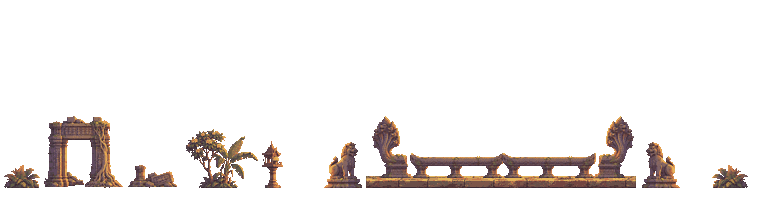
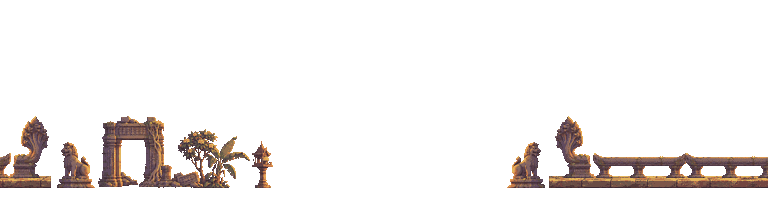
Keep the naga balustrade out from behind the Angkor moat's breach
The near strip slid its naga balustrade behind the breach in the Naga Causeway as the camera
moved: the naga and the stone it stands on stood at the road's own height in the gap, so the
breach read as a bridge and the water down in it went unseen. The strip is laid again with
columns 274-504, the ones that pass behind the breach from any camera that shows it, left
empty, so the back plate's own moat shows there over the water. The rest keeps the singhas,
the naga balustrade, the gateway, the frangipani with its ferns and the spirit house; the
broken pillars did not fit. The strip tool now runs a piece laid past the strip's right end on
at its left, as the strip tiles, and the incense smoke moved with the spirit house.

Claude-Session: https://claude.ai/code/session_01JafcuCsJFi2JrDNSREzSja

Changed region(s): [[0.4062, 0.5556, 1.0, 0.8889], [0.0, 0.5278, 0.375, 0.8889]]

diff --git a/apps/web/games/steel-and-dust/test/regression/bugs/naga-behind-the-breach.test.js b/apps/web/games/steel-and-dust/test/regression/bugs/naga-behind-the-breach.test.js
@@ -1,0 +1,50 @@
+import { join } from 'node:path';
+import { describe, expect, it } from 'vitest';
+import { VIEW_WIDTH } from '../../../src/config.js';
+import { PAINTED_BACKDROPS } from '../../../src/data/backdrops/index.js';
+import { MISSIONS } from '../../../src/data/missions/index.js';
+import { selectMission } from '../../../src/sim/stage/flow.js';
+import { readPngAlpha } from '../../support/png-alpha.js';
+import { createTestGame } from '../../support/test-game.js';
+
+// Bug: the near strip of the Angkor Wat road slid its naga balustrade behind the moat's breach as
+// the camera moved, the naga and the stone it stands on at the road's own height in the gap, so the
+// breach read as a bridge and the water down in it went unseen. The strip is laid so nothing of it
+// ever stands behind the breach, and the back plate's own moat shows there over the water
+const GAME_ROOT = join(import.meta.dirname, '../../../');
+const temple = MISSIONS.find((mission) => mission.theme === 'angkorWat');
+const { folder, layers } = PAINTED_BACKDROPS.angkorWat;
+const near = layers.find((layer) => layer.name === 'near');
+const strip = readPngAlpha(join(GAME_ROOT, `assets/backdrops/${folder}/near.png`));
+
+// the strip's columns that show behind the breach, for every camera that has it on screen, as
+// drawLayer lays the strip
+function columnsBehind({ from, to }) {
+  const columns = new Set();
+
+  for (let cameraX = from - VIEW_WIDTH; cameraX <= to; cameraX++) {
+    const offset = cameraX * near.parallax;
+    const start = Math.round(-(((offset % strip.width) + strip.width) % strip.width));
+
+    for (let x = Math.max(0, from - cameraX); x < Math.min(VIEW_WIDTH, to - cameraX); x++) {
+      columns.add((((x - start) % strip.width) + strip.width) % strip.width);
+    }
+  }
+
+  return [...columns];
+}
+
+describe('the Angkor moat seen through its breach', () => {
+  it('has nothing of the near strip behind it, from any camera that shows it', () => {
+    const game = createTestGame();
+
+    selectMission(game, temple.index);
+    for (const span of game.terrain.water) {
+      const standing = columnsBehind(span).filter((x) =>
+        Array.from({ length: strip.height }, (_, y) => y).some((y) => strip.alpha(x, y) > 0),
+      );
+
+      expect(standing, `moat at ${span.from}`).toEqual([]);
+    }
+  });
+});

diff --git a/apps/web/games/steel-and-dust/src/data/backdrops/angkor-wat.js b/apps/web/games/steel-and-dust/src/data/backdrops/angkor-wat.js
@@ -25,7 +25,7 @@ export const ANGKOR_WAT = {
     { kind: 'birds', plane: 'back', period: 1500, y: 44 },
     { kind: 'glints', plane: 'back', count: 14, top: 165, bottom: 180, drift: 0.03 },
     { kind: 'motes', plane: 'back', count: 10, drift: 0.3, top: 40, bottom: 150 },
-    { kind: 'smoke', plane: 'back', emitters: [{ x: 280, y: 162 }], tileWidth: 768, drift: 0.45 },
+    { kind: 'smoke', plane: 'back', emitters: [{ x: 270, y: 162 }], tileWidth: 768, drift: 0.45 },
     { kind: 'butterflies', plane: 'back', count: 4, top: 120, bottom: 176, drift: 0.45 },
     { kind: 'leaves', plane: 'front', count: 6, drift: 1.1, wind: 0.15 },
   ],

diff --git a/tools/painting_layers.py b/tools/painting_layers.py
@@ -19,7 +19,8 @@
         faces turned from the light: the plinth a balustrade stands on
     python3 tools/painting_layers.py place <out> <width> <base_y> <haze #rrggbb> <amount> <colours> <piece>[:x[:m][:lift]]...
         lays pieces on a transparent strip, each one's lowest row on base_y minus lift (m mirrors
-        it), hazes the strip toward the road's air and reduces it to `colours`
+        it; one laid past the strip's right end runs on at its left, as the strip tiles), hazes the
+        strip toward the road's air and reduces it to `colours`
     python3 tools/painting_layers.py face <ground> <out> <surface_row> <x> [width=12] [shade=0.75]
         the face of a step whose high ground is on the left, from the ground's own columns under
         its surface: darkened as a face turned from the light, the lip lit and the outer edge
@@ -189,7 +190,12 @@ def place(dst, width, base_y, colour, amount, colours, *specs):
         piece = Image.open(path).convert('RGBA')
         piece = ImageOps.mirror(piece) if 'm' in flags else piece
         lift = next((int(flag) for flag in flags if flag.isdigit()), 0)
-        strip.alpha_composite(piece, (int(x), int(base_y) - lift + 1 - piece.height))
+        top = int(base_y) - lift + 1 - piece.height
+        # the strip tiles, so a piece laid past its right end runs on at its left
+        left = int(x) % int(width)
+        strip.alpha_composite(piece, (left, top))
+        if left + piece.width > int(width):
+            strip.alpha_composite(piece, (0, top), (int(width) - left, 0))
     tint = tuple(int(colour[i:i + 2], 16) for i in (1, 3, 5))
     share = float(amount)
     strip.putdata([

diff --git a/apps/web/games/steel-and-dust/assets/backdrops/README.md b/apps/web/games/steel-and-dust/assets/backdrops/README.md
@@ -245,9 +245,9 @@ python3 $T pieces props.png prop
 python3 $T key $C/ground.webp ground-keyed.png 0.15
 python3 $T tile ground-keyed.png $A/ground.png 32 128
 python3 $T course $A/ground.png course.png 8 19 270
-python3 $T place $A/near.png 768 187 '#b07a80' 0.2 48 prop-7.png:4 prop-4.png:44 prop-6.png:128 \
-  prop-5.png:186 prop-3.png:262 prop-2.png:324:m course.png:366 prop-0.png:372:10 prop-1.png:410:10 \
-  prop-1.png:502:10 prop-0.png:594:m:10 prop-2.png:642 prop-7.png:712:m
+python3 $T place $A/near.png 768 187 '#b07a80' 0.2 48 prop-2.png:507:m course.png:549 \
+  prop-0.png:555:10 prop-1.png:593:10 prop-1.png:685:10 prop-0.png:777:m:10 prop-2.png:825 \
+  prop-4.png:866 prop-5.png:946 prop-6.png:922 prop-3.png:1020
 python3 $T face $A/ground.png $A/cliff.png 10 60
 ```
 
@@ -263,11 +263,16 @@ python3 $T face $A/ground.png $A/cliff.png 10 60
 - `near.png` (768 wide): the props sheet keyed at 0.15 (the singha a little taller than a fighter),
   cut into its eight props (naga end, balustrade run, singha, spirit house; gateway, frangipani and
   banana, ferns, broken pillar), laid out by hand and hazed 0.2 toward the moat mist (`#b07a80`).
-  Two tall accents (the gateway, the frangipani) come first, then a long low run: two singhas
-  guarding a naga balustrade with a naga at each end, so half the strip leaves the temple in view.
-  The run stands on a `course` of the road's own paving (rows 8-19 of `ground.png`): much of this
-  road is raised 16 to 36 px, and without the course the 25 px balustrade hid behind it. The
-  incense smoke rises from the spirit house's sticks at x 280, y 162.
+  Columns 274-504 are left empty: they are the ones that slide behind the moat's breach in the
+  Naga Causeway from any camera that shows it, and with the naga balustrade there it stood at the
+  road's own height in the gap and read as a bridge. Through the breach the back plate's own moat
+  shows over the water instead (`test/regression/bugs/naga-behind-the-breach.test.js`). The rest
+  holds two singhas guarding a naga balustrade with a naga at each end, then the gateway, the
+  frangipani with the ferns at their feet, and the spirit house; the broken pillars did not fit. A
+  piece laid past the strip's right end runs on at its left. The run stands on a `course` of the
+  road's own paving (rows 8-19 of `ground.png`): much of this road is raised 16 to 36 px, and
+  without the course the 25 px balustrade hid behind it. The incense smoke rises from the spirit
+  house's sticks at x 270, y 162.
 - `ground.png` (227x49) is the cross-section keyed at 0.15 and cut between columns 2 and 229, the
   pair that match best, so it tiles without a crossfade. Its first full row is 8, the lit top of the
   paving slabs; `groundTop` is 10 so the fighters stand on that top face. Its last row is one plain
